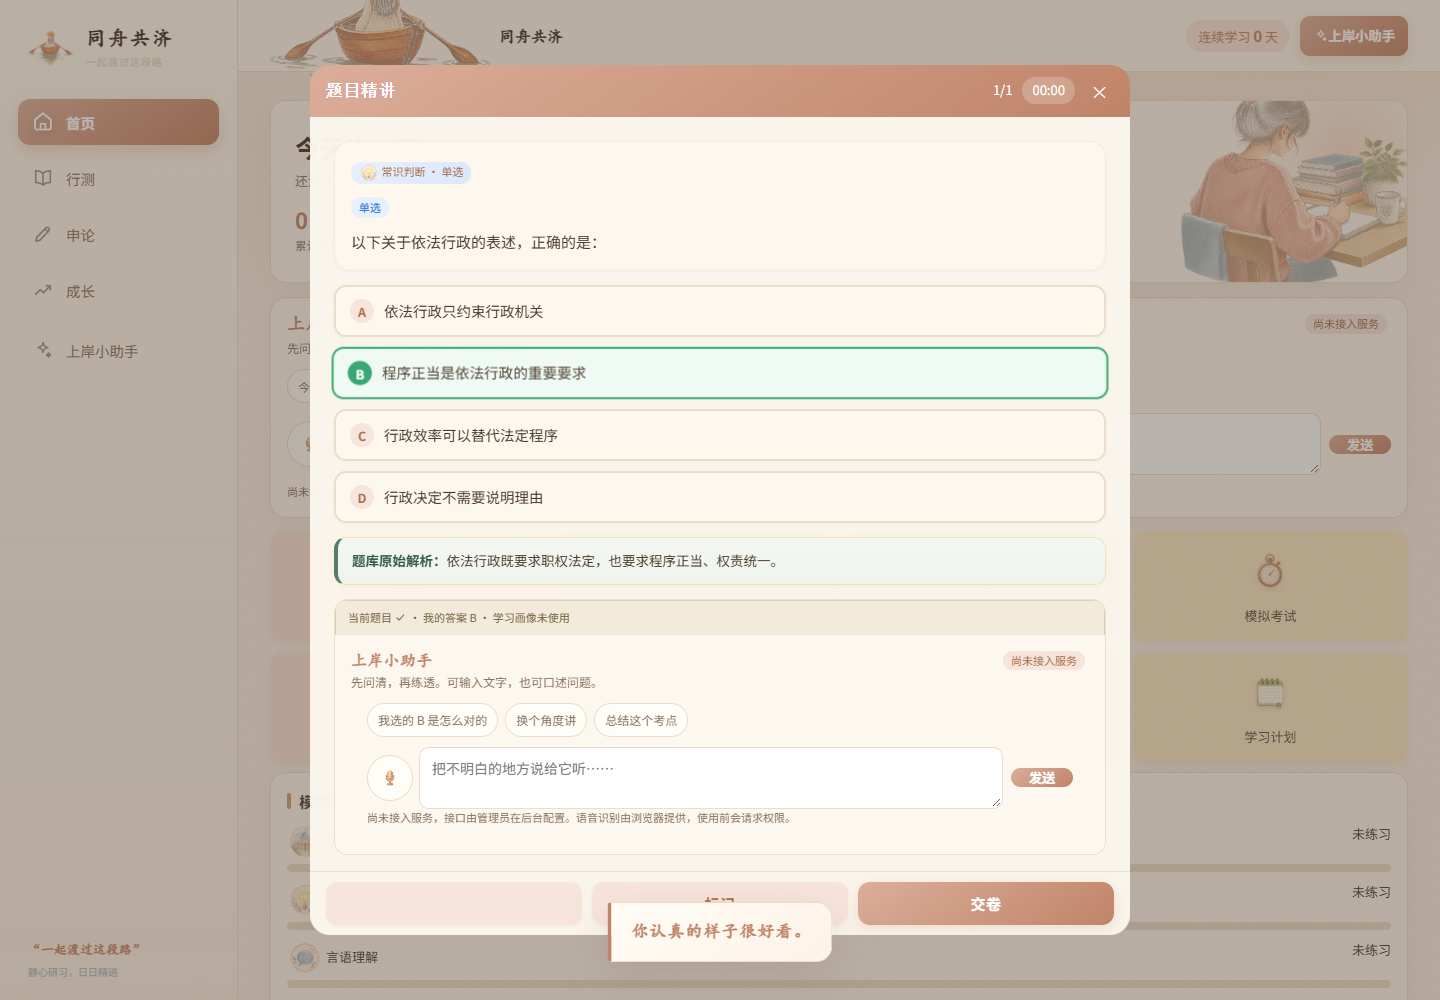
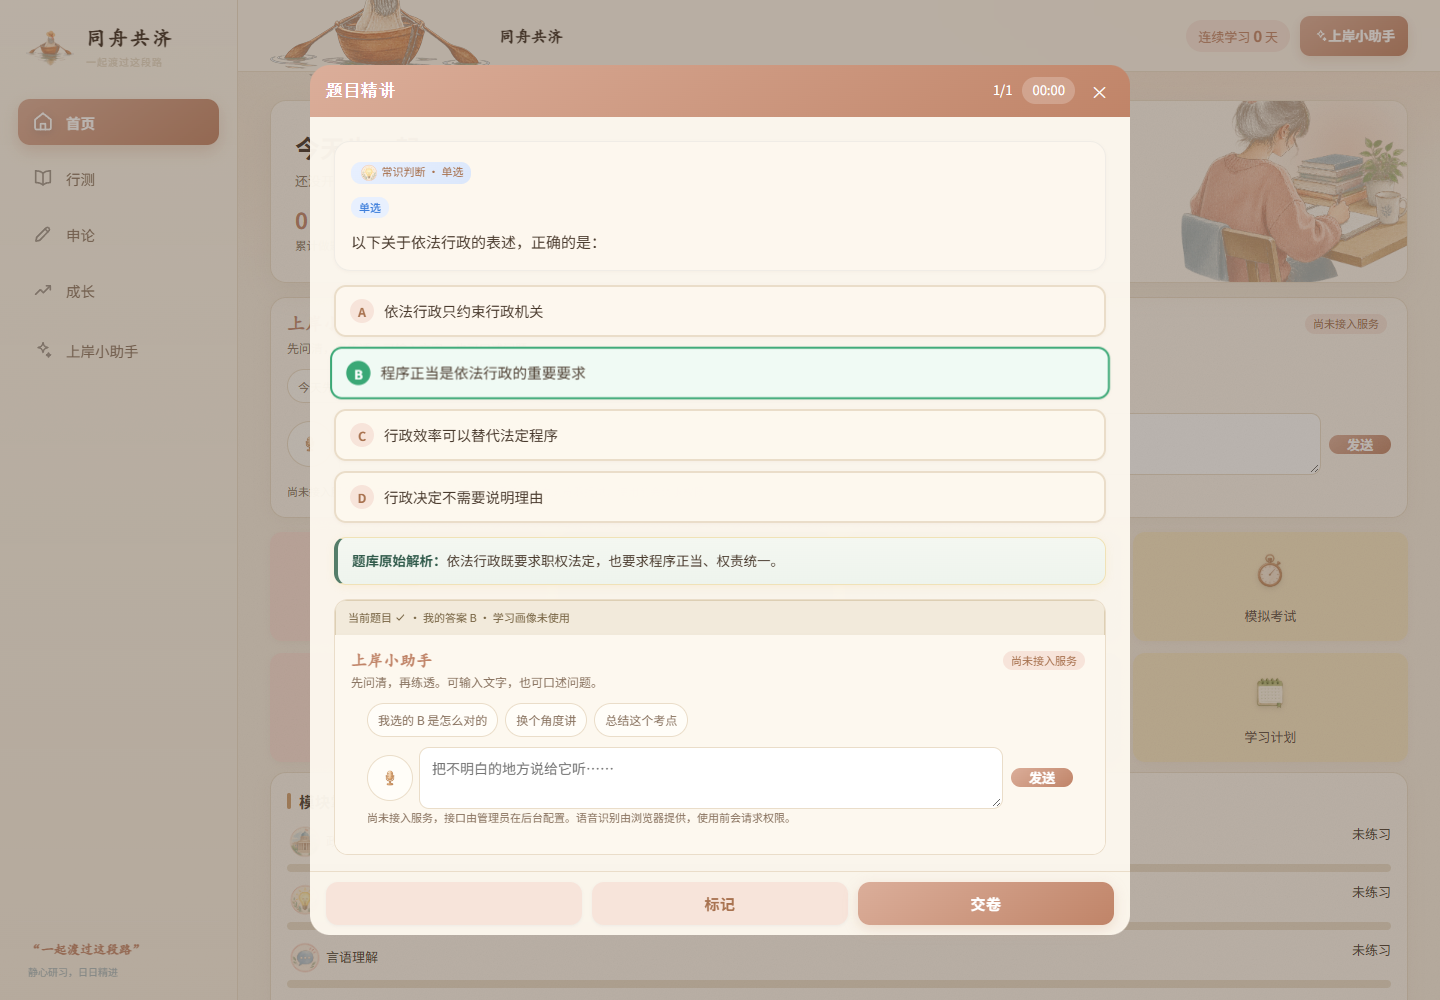
[verified] fix: 历史留言删不掉 + AI 提示仍显示未接入
- 早期留言只有 {text, at} 没有 id，后台删除按 id 匹配，所以删不掉
  服务端启动时一次性为缺失 id 的留言补上，之后可正常删除
- AI 状态是异步探到的（服务端配置），而问答区的提示文案在那之前就渲染完了，
  所以配好了仍显示「尚未接入服务」
  前端监听 sat:ai-ready，探到后把状态文案与标签刷新为「已接入 AI」

实测：造一条无 id 的历史留言 → 启动后自动补 id → 删除成功
      配好 AI 后问答区显示「已接入 AI」，不再出现「尚未接入」

Changed region(s): [[0.4062, 0.899, 0.5938, 0.961], [0.2188, 0.341, 0.375, 0.403], [0.75, 0.372, 0.7812, 0.403]]

diff --git a/js/app.js b/js/app.js
@@ -2417,6 +2417,19 @@ window.exportData=exportData; window.importData=importData; window.confirmReset=
 window.toggleReview=toggleReview;
 /* 给同步脚本读取当前状态（只读，不修改） */
 window.getStore=()=>store; window.getStreak=()=>streakDays();
+
+/* AI 状态是异步探到的（服务端配置），探完把界面上的「尚未接入」提示刷新掉 */
+document.addEventListener('sat:ai-ready', () => {
+  if (!window.AI || !window.AI.ready()) return;
+  $$('.ask-status').forEach(el => {
+    if (el.textContent.indexOf('尚未接入') >= 0) {
+      el.textContent = '已接入 AI。问题会连同你的学情统计一起发出去，不含题目与答案。';
+    }
+  });
+  $$('.ask-composer .tag').forEach(el => {
+    if (el.textContent.indexOf('尚未接入') >= 0) el.textContent = '已接入 AI';
+  });
+});
 window.reviewQuiz=reviewQuiz; window.reviewNav=reviewNav; window.closeResult=closeResult;
 window.fillAskPrompt=fillAskPrompt; window.sendAsk=sendAsk; window.askMic=askMic;
 window.openGrowthTool=openGrowthTool;

diff --git a/server/index.js b/server/index.js
@@ -42,6 +42,19 @@ function saveDb(db) {
 }
 let db = loadDb();
 
+/* 早期版本的留言只有 {text, at}，没有 id，后台就删不掉。
+   启动时统一补上，一次性迁移。 */
+(function backfillMessageIds() {
+  if (!Array.isArray(db.messages)) { db.messages = []; return; }
+  let changed = false;
+  db.messages = db.messages.map(m => {
+    if (!m || typeof m !== 'object') return m;
+    if (!m.id) { changed = true; return { ...m, id: crypto.randomBytes(6).toString('hex') }; }
+    return m;
+  });
+  if (changed) { saveDb(db); console.log('已为历史留言补上 id'); }
+})();
+
 /* ---------------- 密码哈希 ----------------
    scrypt + 随机盐；明文永不落盘。 */
 function hashPassword(pw, salt) {
